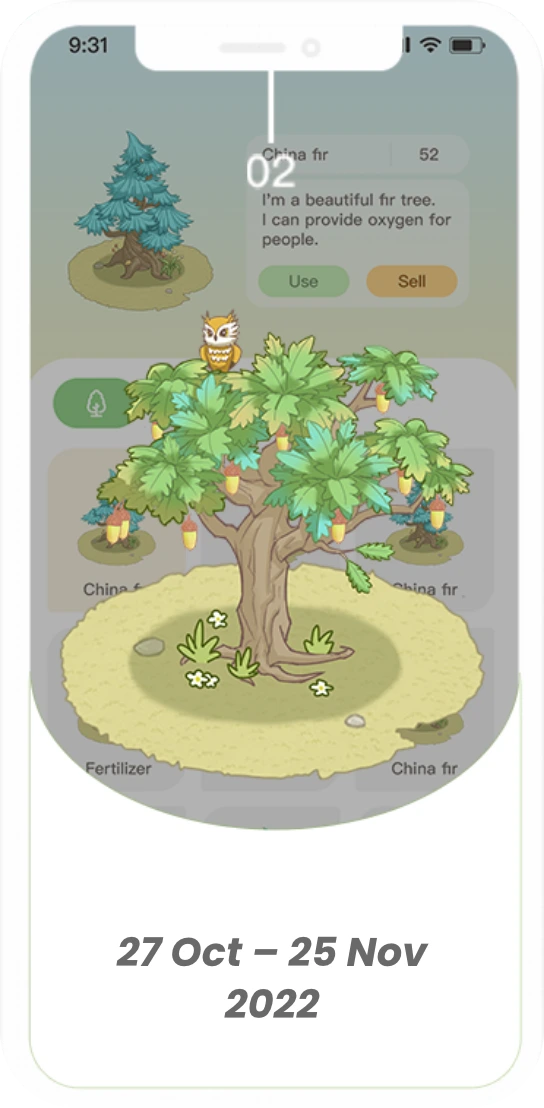
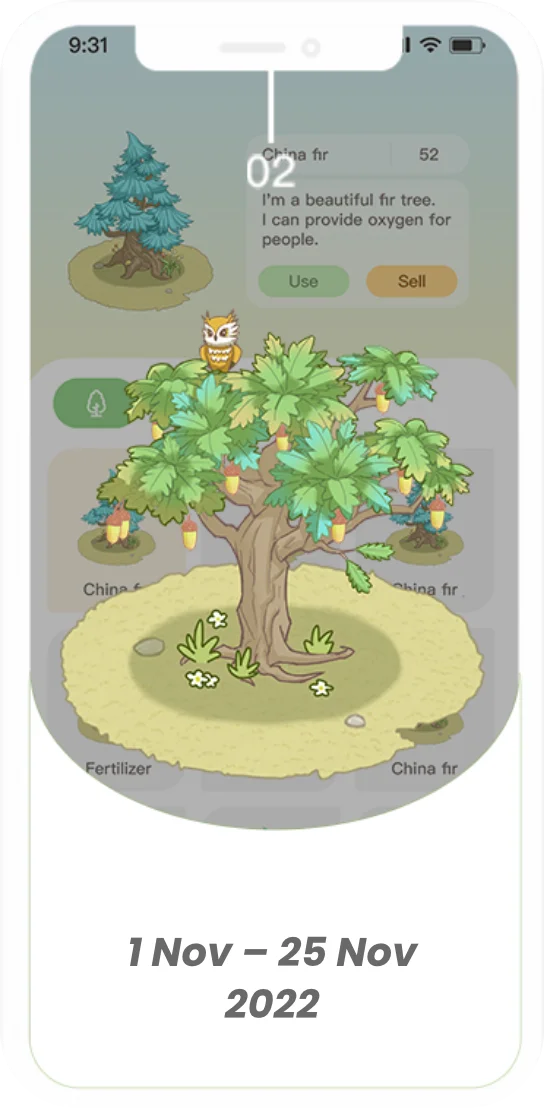
Timeline content and images updated

Changed region(s): [[0.5, 0.8285, 0.7812, 0.8899], [0.2188, 0.8285, 0.4688, 0.8899]]

diff --git a/src/services/data-files/TimelineData.js b/src/services/data-files/TimelineData.js
@@ -1,40 +1,40 @@
 const allTimelineData = [
-    {
-        phase: "PHASE 1",
-        title: "Closed Beta - Ongoing",
-        text: "Be the first one to play Project Forest",
-        date: "27 Sep 2022 - 20 Oct 2022",
-        image: "phase-1.webp",
-        status: true,
-        desktopBorder: "md:left-[100%] md:w-[130%] w-[150%] left-[100%] "
-    },
-    {
-        phase: "PHASE 2",
-        title: "NFT Reveal - Upcoming",
-        text: "Witness the reveal of the spectacular Tree NFTs.",
-        date: "27 Oct 2022 - 25 Nov 2022",
-        image: "phase-2.webp",
-        status: false,
-        desktopBorder: "md:left-[100%]  md:w-[130%] w-[160%] right-[100%]"
-    },
-    {
-        phase: "PHASE 3",
-        title: "Open Beta - Coming Soon",
-        text: "Play and get rewarded for promoting reforestation.",
-        date: "29 Nov 2022 - 31 Dec 2022",
-        image: "phase-3.webp",
-        status: false,
-        desktopBorder: "md:left-[100%]  md:w-[130%] w-[150%] left-[100%]"
-    },
-    {
-        phase: "PHASE 4",
-        title: "Official Launch – Coming Soon",
-        text: "The big day – the official release of Project Forest.",
-        date: "1 January 2023",
-        image: "phase-4.webp",
-        status: false,
-        desktopBorder: "md:right-[100%]  md:w-0 w-[160%] right-[100%]"
-    },
+  {
+    phase: "PHASE 1",
+    title: "Closed Beta - Ongoing",
+    text: "Be the first one to play Project Forest",
+    date: "27 Sep 2022 - 31 Oct 2022",
+    image: "phase-1.webp",
+    status: true,
+    desktopBorder: "md:left-[100%] md:w-[130%] w-[150%] left-[100%] ",
+  },
+  {
+    phase: "PHASE 2",
+    title: "NFT Airdrop Event - Upcoming",
+    text: "Win spectacular Tree NFT airdrops throughout the month.",
+    date: "1 Nov 2022 - 25 Nov 2022",
+    image: "phase-2.webp",
+    status: false,
+    desktopBorder: "md:left-[100%]  md:w-[130%] w-[160%] right-[100%]",
+  },
+  {
+    phase: "PHASE 3",
+    title: "Open Beta - Coming Soon",
+    text: "Play and get rewarded for promoting reforestation.",
+    date: "29 Nov 2022 - 31 Dec 2022",
+    image: "phase-3.webp",
+    status: false,
+    desktopBorder: "md:left-[100%]  md:w-[130%] w-[150%] left-[100%]",
+  },
+  {
+    phase: "PHASE 4",
+    title: "Official Launch – Coming Soon",
+    text: "The big day – the official release of Project Forest.",
+    date: "January 2023",
+    image: "phase-4.webp",
+    status: false,
+    desktopBorder: "md:right-[100%]  md:w-0 w-[160%] right-[100%]",
+  },
 ];
 
 export const getAllTimelineData = () => allTimelineData;

diff --git a/src/components/beta/hero/Hero.js b/src/components/beta/hero/Hero.js
@@ -29,8 +29,8 @@ const Hero = () => {
       </h4>
       <p className="  w-full md:w-3/4 lg:w-2/4 text-primaryBlue text-base md:text-xl font-medium">
         Project Forest&apos;s first round of public beta is currently live.
-        Participate in the closed beta for free and earn exclusive NFT rewards
-        and more. Get started by creating a Project Forest account and
+        Participate in the closed beta for free and earn exclusive Tree-NFT
+        airdrops, each day. Get started by creating a Project Forest account and
         downloading the beta app on your iOS or Android mobile devices.
       </p>
       <p className="text-primaryBlue text-sm w-full md:w-3/4 lg:w-2/4 ">
